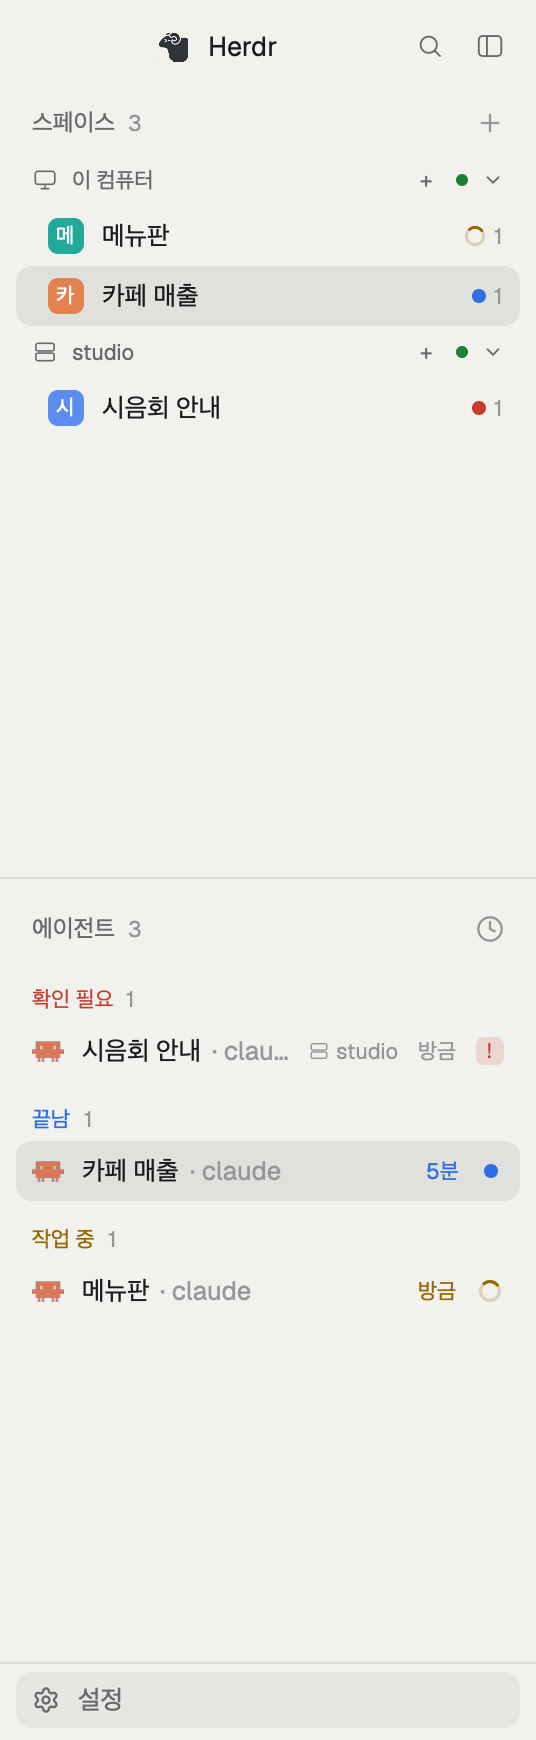
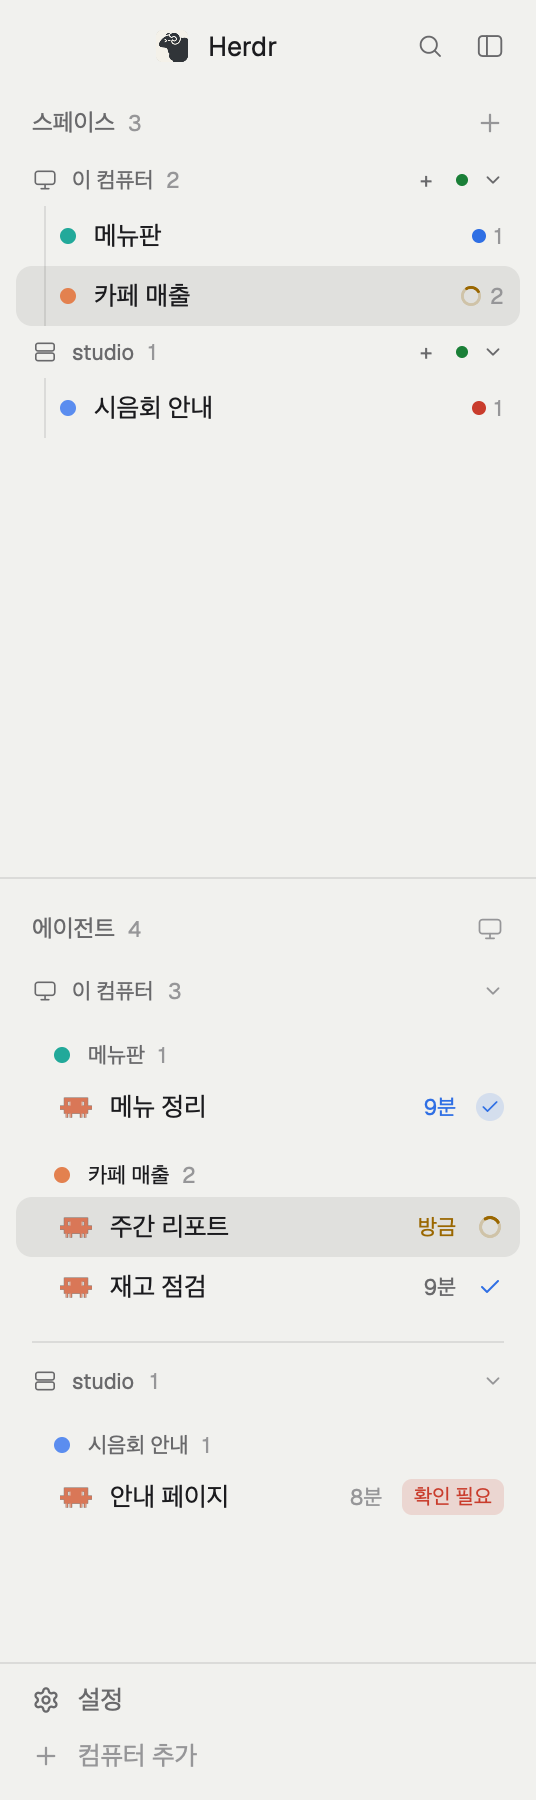
feat: 사이드바 표지 · 완료 표시 정리와 갤러리 소개 새로 만들기 0.2.1
- 갤러리 카드 이름을 Session History KR 로 바꾸고 소개 그림을 새 화면으로 다시 만듦
- 스페이스 표지를 글자 사각형에서 색 점 + 컴퓨터 아래 세로선으로, 컴퓨터 줄에 스페이스 수
- 작업 중 에이전트는 굵게 + 옅은 바탕, 끝난 에이전트는 체크, 끝난 지 한 시간이 지나야 흐리게
- agy 에이전트는 터미널 제목 대신 agy 대화 제목으로 표시
- README 사이드바 그림 · 설명, RECIPE 명세, CHANGELOG 갱신

diff --git a/mods/sidebar-agents/main.js b/mods/sidebar-agents/main.js
@@ -5,7 +5,7 @@
 
 import { View, div, image, svg } from "gpui-kit";
 import { v_flex, h_flex } from "gpui-base";
-import { agents, terminals, panes, focused, spaces, run, theme, shared, setShared, setAgentOrder, openOverlay, closeOverlay, props, window, layout } from "herdr";
+import { agents, terminals, panes, focused, spaces, run, theme, shared, setShared, setAgentOrder, openOverlay, closeOverlay, props, window, layout, hc, exec, checking } from "herdr";
 
 function find(node, id) {
   if (node?.id === id) return node;
@@ -33,6 +33,15 @@ function toggleSidebar() {
 // Stops at an opening bracket or quote, so a title that starts with one ("[web] login") keeps it.
 const clean = (s) => (s ?? "").replace(/^[^\p{L}\p{N}\p{Ps}\p{Pi}]+/u, "").replace(/^\[ [!.] \] /, "").trim();
 
+// Antigravity(agy)는 터미널 제목을 비워 두어 이름 대신 「Antigravity」만 보였다. 그 agy 가 열어 둔
+// 대화(presence/<대화>.lock)의 제목을 agy 의 요약 DB 에서 읽는다. 다른 컴퓨터의 agy 는 그 컴퓨터에서 읽는다.
+const AGY = new Map(); // 터미널 주소 -> { name, at }
+const AGY_TITLE = `PATH="$PATH:/usr/sbin:/usr/bin:/sbin:/bin"
+id=$(lsof -a -p "$1" -Fn 2>/dev/null | sed -n 's#^n.*/antigravity-cli/presence/\\([0-9a-f-]*\\)\\.lock$#\\1#p' | head -n 1)
+[ -n "$id" ] || exit 0
+exec sqlite3 -readonly "file:$HOME/.gemini/antigravity-cli/conversation_summaries.db?immutable=1" "select title from conversation_summaries where conversation_id='$id'" 2>/dev/null`;
+const agyName = (l) => (l?.app === "antigravity" ? AGY.get(l.terminal ?? l.address)?.name ?? "" : "");
+
 function leadPanes(all) {
   const leads = new Map();
   for (const p of all) {
@@ -46,7 +55,11 @@ function leadPanes(all) {
 
 function title(tab, l) {
   const prog = l?.program?.name;
-  const live = clean(l?.title);
+  // agy 의 터미널 제목은 비었거나 프로그램 이름뿐이라, 읽어 둔 대화 제목이 있으면 그것을 쓴다.
+  const raw = clean(l?.title);
+  const agy = clean(agyName(l));
+  const bare = !raw || raw === (l?.terminal ?? l?.address) || raw === prog || raw.toLowerCase() === l?.program?.key || raw.toLowerCase() === "agy";
+  const live = agy && bare ? agy : raw;
   // clean() would strip a path's leading ~ or /: test the title with only its status glyph gone.
   const path = /^[~/]|^[A-Za-z]:\\/.test((l?.title ?? "").replace(/^[^\p{L}\p{N}~/]+/u, ""));
   const telling = live && live !== (l?.terminal ?? l?.address) && live !== prog && !path && !live.includes("@") && live.toLowerCase() !== l?.program?.key;
@@ -67,7 +80,9 @@ const SORTS = [
 const sortOf = () => SORTS.find((s) => s.id === shared("agents.sort")) ?? SORTS[0];
 const SECTION = { 4: "확인 필요", 3: "끝남", 2: "작업 중", 1: "쉬는 중" };
 // 상태를 부르는 말(풍선말), 스페이스 표지의 색(spaces 와 같다).
-const WORD = { blocked: "확인 필요", done: "끝남 · 아직 보지 않음", working: "작업 중", idle: "쉬는 중" };
+const WORD = { blocked: "확인 필요", done: "끝남 · 아직 보지 않음", working: "작업 중", idle: "쉬는 중", finished: "끝남 · 확인함" };
+// 끝난 지 이만큼이 지나기 전에는 흐리게 하지 않는다: 방금 끝난 일은 아직 소식이다.
+const FRESH = 3600000;
 const MARK = { ansi6: "#22a99a", ansi3: "#e3814f", ansi4: "#5b8def", ansi5: "#8b7cf6", ansi2: "#3fae6a", ansi1: "#d9649a" };
 const SECTION_STATUS = { 4: "blocked", 3: "done", 2: "working" };
 
@@ -97,6 +112,37 @@ export default class Agents extends View {
     if (!this.pendingPins.length) localStorage.removeItem("pins");
     this.migratingPins = new Set();
     cx.timer.every(30000, (cx) => cx.notify());
+    this.agyBusy = new Set();
+    cx.timer.every(5000, (cx) => this.refreshAgy(cx));
+  }
+
+  // agy 의 대화 제목: 처음 보면 바로, 그 뒤로는 1분마다 다시 읽는다(대화가 이어지며 제목이 바뀐다).
+  refreshAgy(cx) {
+    if (checking()) return;
+    const now = Date.now();
+    const due = agents().filter((a) => a.app === "antigravity" && !this.agyBusy.has(a.address) && now - (AGY.get(a.address)?.at ?? 0) > 60000);
+    if (!due.length) return;
+    const machineOf = new Map(spaces().map((s) => [s.id, s.machine ?? null]));
+    for (const a of due) this.agyBusy.add(a.address);
+    cx.spawn(async (cx) => {
+      let changed = false;
+      for (const a of due) {
+        const old = AGY.get(a.address)?.name ?? "";
+        let name = old;
+        try {
+          const g = await hc(["get", a.address, "--json"]);
+          const pid = g.code === 0 ? JSON.parse(g.stdout)?.foreground?.pid : null;
+          if (pid) {
+            const r = await exec("sh", ["-c", AGY_TITLE, "sh", String(pid)], { on: machineOf.get(a.space) ?? null, timeout: 8000 });
+            if (r.code === 0) name = clean(r.stdout.split("\n")[0]);
+          }
+        } catch {}
+        AGY.set(a.address, { name, at: Date.now() });
+        this.agyBusy.delete(a.address);
+        if (name !== old) changed = true;
+      }
+      if (changed) cx.notify();
+    });
   }
 
   // Stamps agents whose state changed. Done and idle count as one: looking at a
@@ -105,8 +151,10 @@ export default class Agents extends View {
     let dirty = false;
     for (const a of list) {
       const s = a.status === "done" ? "idle" : a.status;
-      if (this.changed[a.address]?.s === s) continue;
-      this.changed[a.address] = { s, at: now };
+      const prev = this.changed[a.address];
+      if (prev?.s === s) continue;
+      // w: 일하다 멈췄는가. 처음 본 쉬는 에이전트는 끝낸 일이 없다.
+      this.changed[a.address] = { s, at: now, w: prev ? prev.s !== "idle" : false };
       dirty = true;
     }
     if (!dirty) return;
@@ -138,6 +186,12 @@ export default class Agents extends View {
 
   since(a) {
     return this.changed[a.address]?.at ?? 0;
+  }
+
+  // 상태 표지에 넘길 것: 쉬는 중이면 일을 끝내고 쉬는지(finished), 끝난 지 한 시간이 안 됐는지(fresh).
+  markOf(a, now) {
+    const idle = a.status === "idle";
+    return { status: a.status, finished: idle && this.changed[a.address]?.w !== false, fresh: idle && now - this.since(a) < FRESH };
   }
 
   rank(a) {
@@ -218,7 +272,9 @@ export default class Agents extends View {
     if (a.status === "working") return svg("mods/workspace-chrome/spinner.svg").size(12).mx(1).flex_none().text_color(t.working).spin(900);
     if (a.status === "blocked" && compact) return div().size(14).flex_none().rounded(4).bg(t.blocked + "26").text_size(10.5).font_bold().text_color(t.blocked).flex().items_center().justify_center().child("!");
     if (a.status === "blocked") return div().flex_none().px(6).h(18).rounded(5).bg(t.blocked + "26").text_size(10.5).font_semibold().text_color(t.blocked).flex().items_center().child("확인 필요");
-    // Idle: a ring; done: a dot.
+    // 끝남(아직 안 봄): 옅은 원 안의 체크. 끝내고 본 것: 체크만(방금이면 끝남 색, 오래되면 흐린 색). 일한 적 없는 쉬는 중: 고리.
+    if (a.status === "done") return div().size(14).flex_none().rounded(7).bg(color + "26").flex().items_center().justify_center().child(svg("mods/workspace-chrome/check.svg").size(10).text_color(color));
+    if (a.status === "idle" && a.finished) return h_flex().size(14).flex_none().items_center().justify_center().child(svg("mods/workspace-chrome/check.svg").size(12).text_color(a.fresh ? (t.done ?? t.dim) : t.dim));
     if (a.status === "idle") return div().size(7).mx(3).flex_none().rounded(4).border(1.5).border_color(t.idle ?? t.dim);
     return div().size(7).mx(3).flex_none().rounded(4).bg(a.status === "done" ? color : t.dim + "00");
   }
@@ -328,10 +384,14 @@ export default class Agents extends View {
           .hover((s) => s.bg(t.hover))
           .on_click(() => run("pane.focus", { pane: a.pane }))
           .child(div().flex_1().min_w(0).whitespace_nowrap().text_right().text_color(t.muted).child(String(i + 1)))
-          .child(h_flex().w(14).flex_none().items_center().justify_center().child(this.status(t, a, true)));
+          .child(h_flex().w(14).flex_none().items_center().justify_center().child(this.status(t, this.markOf(a, now), true)));
       }
       const when = this.since(a);
-      const idle = a.status === "idle" && !a.focused;
+      // 작업 중은 진하게. 쉬는 중은 끝난 지 한 시간이 지나야 흐리게: 방금 끝난 일은 끝났다는 게 보여야 한다.
+      const mark = this.markOf(a, now);
+      const { finished, fresh } = mark;
+      const idle = a.status === "idle" && !a.focused && !fresh;
+      const working = a.status === "working";
       const isPinned = a.pinned;
       const pin = div()
         .id(`pin-${a.address}`)
@@ -364,6 +424,8 @@ export default class Agents extends View {
         .items_center()
         .gap(9)
         .when(a.focused, (el) => el.bg(t.selected))
+        .when(working && !a.focused, (el) => el.bg(t.working + "14"))
+        .when(idle && this.hovered !== a.address, (el) => el.opacity(0.55))
         .cursor_pointer()
         .hover((s) => s.bg(t.hover))
         .on_hover((on, cx) => {
@@ -379,15 +441,15 @@ export default class Agents extends View {
             cx.notify();
           })).child(pic)))
         .child(h_flex().flex_1().min_w(0).gap(5).items_center()
-          .child(div().min_w(0).max_w(full && more ? 120 : 200).truncate().text_color(idle ? t.muted : t.foreground).child(name))
+          .child(div().min_w(0).max_w(full && more ? 120 : 200).truncate().text_color(idle ? t.muted : t.foreground).when(working, (el) => el.font_semibold()).child(name))
           .when(full && Boolean(more), el => el.child(div().flex_1().min_w(0).truncate().text_color(t.dim).child(`\u00b7 ${more}`))))
         .when(Boolean(machine) && full, el => el.child(h_flex().flex_none().max_w(96).gap(3).items_center().text_size(11).text_color(t.dim)
           .child(svg("mods/workspace-chrome/server.svg").size(11).flex_none())
           .child(div().min_w(0).truncate().child(machine))))
         .when(subs.length > 0, el => el.child(fold(a, subs)))
         .when(this.hovered === a.address, el => el.child(pin))
-        .when(this.hovered !== a.address && Boolean(when), el => el.child(div().flex_none().text_size(11).text_color(a.status === "working" ? (t.working ?? t.dim) : a.status === "done" ? (t.done ?? t.dim) : t.dim).child(duration(now - when))))
-        .child(div().id(`st-${a.address}`).flex_none().tooltip(WORD[a.status] ?? "").child(this.status(t, a, byPriority && !isPinned)));
+        .when(this.hovered !== a.address && Boolean(when), el => el.child(div().flex_none().text_size(11).text_color(a.status === "working" ? (t.working ?? t.dim) : a.status === "done" ? (t.done ?? t.dim) : finished && fresh ? t.muted : t.dim).child(duration(now - when))))
+        .child(div().id(`st-${a.address}`).flex_none().tooltip(finished ? WORD.finished : WORD[a.status] ?? "").child(this.status(t, mark, byPriority && !isPinned)));
     };
 
     // Groups in list order: spaces (grouped) or priority sections. Agents of a
@@ -406,13 +468,12 @@ export default class Agents extends View {
       else groups.push({ id, label: byPriority ? SECTION[r] : a.space_name || "", status: byPriority ? SECTION_STATUS[r] : null, space: byPriority ? null : a.space, machine: machineOf(a), members: [a] });
     }
 
-    // 스페이스 묶음의 머리에 붙는 표지: 스페이스 목록과 같은 색, 이름의 첫 글자.
+    // 스페이스 묶음의 머리에 붙는 표지: 스페이스 목록과 같은 색 점.
     const colors = shared("space.colors") ?? {};
     const here = spaceList.find((s) => s.active)?.id; // 지금 보고 있는 스페이스
     const mark = (g) => {
       const c = colors[g.space] ?? "ansi6";
-      return h_flex().size(15).flex_none().rounded(4).bg(c.startsWith("#") ? c : (MARK[c] ?? t[c])).items_center().justify_center()
-        .text_size(9).font_bold().text_color("#ffffff").child([...g.label][0]?.toUpperCase() ?? "?");
+      return div().size(8).mx(3).flex_none().rounded(4).bg(c.startsWith("#") ? c : (MARK[c] ?? t[c]));
     };
     // A group's header; it folds the group. Folded, it says how many and the most urgent state.
     const header = (g) => {

diff --git a/mods/sidebar-spaces/main.js b/mods/sidebar-spaces/main.js
@@ -400,7 +400,7 @@ export default class Spaces extends View {
       const folded = this.folded.has(m);
       const icon = svg(`mods/workspace-chrome/${m ? "server" : "monitor"}.svg`).size(13).flex_none();
       const badge = div().absolute().right(-3).bottom(-2).size(6).rounded(3).border_1().border_color(t.chrome).bg(connected ? t.ansi2 : t.dim);
-      const head = h_flex().id(`machine-${m ?? "local"}`).h(26).flex_none().px(collapsed ? 0 : 8).gap(7).items_center().text_size(11).font_medium().text_color(t.muted)
+      const head = h_flex().id(`machine-${m ?? "local"}`).h(26).flex_none().px(collapsed ? 0 : 8).gap(7).items_center().text_size(11).font_semibold().text_color(t.muted)
         .when(collapsed, el => el.mt(4).w(RAIL_CELL).justify_center().rounded(6).tooltip(login ? `${m}: 로그인이 필요합니다. 실행: ${login}` : m ? `${m} · ${connected ? "연결됨" : (STATE[machine?.state ?? "asleep"] ?? (machine?.state ?? "asleep").replace(/_/g, " "))}` : "이 컴퓨터"))
         .cursor_pointer().hover(s => s.bg(t.hover))
         .on_click((_e, cx) => {
@@ -414,7 +414,9 @@ export default class Spaces extends View {
           .on_click((_e, cx) => { cx.stop_propagation(); openOverlay({ mod: "machine-add", kind: "dialog", width: 560 }); }).child("⚠")))
         .when(!collapsed, el => el.child(icon))
         .when(collapsed, el => el.child(div().relative().flex_none().child(icon).when(Boolean(m), el => el.child(badge))))
-        .when(!collapsed, el => el.child(div().flex_1().truncate().child(m ?? "이 컴퓨터"))
+        .when(!collapsed, el => el.child(h_flex().flex_1().min_w(0).gap(6).items_center()
+            .child(div().min_w(0).truncate().child(m ?? "이 컴퓨터"))
+            .when(mine.length > 0, el => el.child(div().flex_none().font_normal().text_color(t.dim).child(String(mine.length)))))
           .when(!connected && !rebuilt && !login, el => el.child(div().flex_none().font_normal().text_color(t.dim).child(STATE[machine?.state ?? "asleep"] ?? (machine?.state ?? "asleep").replace(/_/g, " "))))
           .when(rebuilt, el => el.child(h_flex().flex_none().gap(3).items_center()
             .child(div().max_w(140).truncate().child(repair?.error || "다시 만들어짐 ·"))
@@ -535,13 +537,16 @@ export default class Spaces extends View {
         cx.notify();
       })
       .on_mouse_down("right", () => this.menu(w))
+      // 컴퓨터 아래의 스페이스: 컴퓨터 아이콘 밑으로 내려오는 선 하나로 어느 컴퓨터의 것인지 잇는다.
+      .when(Boolean(this.nested), el => el.child(div().absolute().left(14).top(0).bottom(0).w(1).bg(t.border)))
       .child(
         h_flex()
           .gap(9)
           .items_center()
-          .when(Boolean(tree), el => el.pl(22).child(svg("mods/workspace-chrome/branch.svg").size(13).flex_none().text_color(t.dim)))
-          .when(!tree && Boolean(this.nested), el => el.pl(8))
-          .when(!tree, el => el.child(h_flex().size(18).flex_none().rounded(5).bg(fill).items_center().justify_center().text_size(10.5).font_bold().text_color("#ffffff").child([...w.name][0]?.toUpperCase() ?? "?")))
+          .when(Boolean(tree), el => el.pl(this.nested ? 30 : 22).child(svg("mods/workspace-chrome/branch.svg").size(13).flex_none().text_color(t.dim)))
+          .when(!tree && Boolean(this.nested), el => el.pl(14))
+          // 스페이스 표지: 글자 사각형 대신 스페이스 색 점(에이전트 목록의 묶음 머리와 같다).
+          .when(!tree, el => el.child(div().size(8).flex_none().rounded(4).bg(fill)))
           .child(div().flex_initial().min_w(SIDE_MIN).truncate().text_color(t.foreground).when(on, el => el.font_medium()).child(w.name))
           .child(g ? this.gitTail(g, tree, w.name, t) : div().flex_1())
           .when(Boolean(crew), el => el.child(crew)),

diff --git a/RECIPE.md b/RECIPE.md
@@ -1,22 +1,24 @@
-# herdr-history-ko
+# Session History KR
 
-Herdr 오른쪽에 「히스토리」 패널을 붙이고, 에이전트가 연 HTML 문서를 Herdr 안에서 보는 「문서 보기」 창을 더하고, 왼쪽 사이드바를 한글로 다듬은 레이아웃이다. 패널은 지금 보고 있는 에이전트(Claude Code · Codex · Antigravity)에게 보낸 요청을 하나씩 나눠, 요청마다 무엇을 했고 누가(모델 · effort) 했는지 보여 준다. 사이드바는 컴퓨터 아래에 스페이스를 들여 쓰고, 에이전트를 급한 순서 · 스페이스별 · 컴퓨터별로 정렬한다. 화면 글자는 모두 한국어다.
+Claude Code, Codex, Antigravity에 맡긴 일이 어디까지 진행됐는지 히스토리에서 요청별로 확인합니다. 에이전트가 만든 HTML 문서는 Herdr 안에서 바로 봅니다. 한글 사이드바는 스페이스를 컴퓨터별로 묶고, 확인이 필요한 에이전트부터 보여 줍니다.
 
-![herdr-history-ko](preview.png)
+![Session History KR](preview.png)
 
-레이아웃은 둘이다. `history-sidebar` 는 한글 사이드바와 히스토리, `history` 는 Herdr 기본 사이드바와 히스토리다.
+레이아웃은 두 가지입니다. 둘 다 히스토리를 보여 주며, `history-sidebar` 는 한글 사이드바를, `history` 는 Herdr 기본 사이드바를 씁니다.
 
 **What you see:**
 
 왼쪽에서 오른쪽으로.
 
 - **사이드바**(268px, `chrome` 바탕): 위 46px 는 기본 `workspace-chrome`, 가운데는 스페이스 목록과 에이전트 목록이 같은 비율(각각 최소 90px), 바닥 69px 는 「설정」 · 「컴퓨터 추가」.
-  - 스페이스 목록: 머리 「스페이스 N」과 +. 다른 컴퓨터가 등록되어 있으면 컴퓨터 줄(11px, 이 컴퓨터는 모니터 아이콘과 「이 컴퓨터」, 다른 컴퓨터는 서버 아이콘과 이름, 연결 점, +, 접기 화살표)이 생기고 그 아래 스페이스 줄이 8px 들여 쓰인다. 스페이스 줄은 색 표지(이름 첫 글자), 이름, 평범하지 않을 때만 저장소 · 브랜치, 오른쪽에 그 안의 에이전트 수와 가장 급한 상태.
+  - 스페이스 목록: 머리 「스페이스 N」과 +. 다른 컴퓨터가 등록되어 있으면 컴퓨터 줄(11px semibold, 이 컴퓨터는 모니터 아이콘과 「이 컴퓨터」, 다른 컴퓨터는 서버 아이콘과 이름, 이름 옆에 스페이스 수(`dim`), 연결 점, +, 접기 화살표)이 생긴다. 그 아래 스페이스 줄은 14px 더 들여 쓰이고, 컴퓨터 아이콘 가운데(줄 왼쪽에서 14px)에서 1px `border` 세로선이 그 컴퓨터의 스페이스 줄을 따라 내려온다. 스페이스 줄은 8px 색 점(스페이스 색), 이름, 평범하지 않을 때만 저장소 · 브랜치, 오른쪽에 그 안의 에이전트 수와 가장 급한 상태.
   - 화면 공유(5900)가 열린 다른 컴퓨터 줄에는 화면 공유 단추가 붙는다.
   - 에이전트 목록: 머리 「에이전트 N」과 정렬 아이콘(급한 순서 시계 · 스페이스별 겹친 층 · 컴퓨터별 모니터).
-    - 스페이스별: 스페이스 머리(15px 색 표지, 이름, 수) 아래 에이전트 줄(앱 아이콘, 제목, 지난 시간, 상태). 다른 컴퓨터의 스페이스는 머리 끝에 서버 아이콘과 컴퓨터 이름.
+    - 스페이스별: 스페이스 머리(8px 색 점, 이름, 수) 아래 에이전트 줄(앱 아이콘, 제목, 지난 시간, 상태). 다른 컴퓨터의 스페이스는 머리 끝에 서버 아이콘과 컴퓨터 이름.
     - 컴퓨터별: 컴퓨터 머리(13px 아이콘, 이름, 수, 접기 화살표) 아래 스페이스 묶음이 8px 들여 쓰인다. 두 번째 컴퓨터부터 위에 1px 선.
     - 급한 순서: 확인 필요 · 끝남 · 작업 중 · 쉬는 중 구역. 줄은 「스페이스 · 제목」, 다른 컴퓨터 줄 끝에 서버 아이콘과 이름.
+    - 에이전트 줄의 강약: 작업 중은 이름을 semibold 로, 줄 바탕을 `working` 색 8%(`+ "14"`) 면으로. 상태 표지는 끝남(아직 안 봄)이 `done` 색 15% 원(14px) 안의 `done` 색 체크, 끝내고 본 것이 체크만(끝난 지 한 시간 안이면 `done` 색, 넘으면 `dim`), 일을 시킨 적 없이 쉬는 것이 7px 고리. 끝난 지 한 시간이 지난 쉬는 줄만(지금 보고 있지 않을 때) 이름을 `muted` 로, 줄 전체를 불투명도 0.55 로 흐리게 하고, 마우스를 올리면 원래대로. 방금 끝난 일은 흐리지 않는다. 한 시간은 쉬는 상태가 된 시각부터 세고(끝남과 쉬는 중은 한 상태로 본다), 일을 했는지는 상태가 바뀔 때 앞 상태가 쉬는 중이 아니었는지로 localStorage `changed` 에 적어 둔다.
+    - 에이전트 제목: 이름 붙인 탭이면 탭 이름, 아니면 터미널 제목. Antigravity(agy)는 터미널 제목에 터미널 주소만 남겨, agy 가 저장한 대화 제목을 쓴다.
 - **탭 줄**(42px): 기본 `tabs` 와 오른쪽 96px 「히스토리」 단추(15px 시계 아이콘 `icon.png` + 글자). 패널이 열려 있으면 단추가 눌린 면으로 보인다.
 - **본문**(안쪽 여백 8, 간격 8): 터미널, 숨은 파일 · 변경 패널, 히스토리 칸(384px, 300~720px 로 끌어 바꿈). 맨 아래 상태 줄 28px.
 - **히스토리 패널**: 테두리 대신 바탕보다 옅은 면(`raised`)으로 나눈다.
@@ -48,7 +50,7 @@ Herdr 오른쪽에 「히스토리」 패널을 붙이고, 에이전트가 연 H
 - 문서 찾기(`reader.py`): 요청마다 `docs`. 셸 명령의 `open <파일>`(같은 명령의 `cd` 를 따라가고, 상대 경로는 그 대화의 폴더를 알 때만), 에이전트가 만들거나 고친 `.html`, 답변에 적은 경로(`~/` · `/` 로 시작, 백틱 · `[이름](<경로>)` 안의 띄어쓰기 경로 포함, 지금 있는 파일만). 확장자 `.html .htm .svg .png .jpg .jpeg .gif .webp`. 요청마다 12개.
 - `reader.py [--on <컴퓨터>] --doc <경로> [고친 시각] [크기]`: 그 컴퓨터에서 문서와, 문서가 같은 폴더(아래 폴더 포함) 안에서 `src` · `href` · `url()` 로 부르는 재료(css · js · 그림 · 글꼴, 다른 html 은 빼고, 80개 · 합쳐 12MB까지)를 base64 JSON 으로 낸다. 고친 시각과 크기가 같으면 `{"same": true}`.
 - `mods/doc-view`: `main.js`(다이얼로그, props `docs: [{path, at, topic}]` · `start` · `machine` · `browser`), `view.py`(가져와 `~/.cache/herdr-doc-view/docs/<문서>/` 에 펼치고, 글자 인코딩을 적지 않은 HTML 에는 사본에 `<meta charset="utf-8">` 을 넣고, 그린 조각을 `mods/doc-view/.shots/` 에 둔다. `peek` 은 전에 그린 것만), `render.swift`(처음 쓸 때 `xcrun swiftc -O` 로 `~/.cache/herdr-doc-view/bin/` 에 빌드. WKWebView 를 화면 밖 테두리 없는 창에 두고 accessory 앱으로 돌려 Dock 에 나오지 않는다. 글꼴을 기다려 높이를 재고 1600pt 조각을 2배 PNG 로 찍는다. 60000pt 까지, 25초). 그림 파일은 그리지 않고 그대로 쓴다. 쓰는 `herdr` 함수: `exec` · `appHome` · `closeOverlay` · `props` · `theme`. 아이콘 `icons/*.svg`.
-- `mods/sidebar-spaces` · `sidebar-agents` · `sidebar-chrome`: 기본 `spaces` · `agents` · `workspace-chrome`(0.1.16)을 `mod.clone` 으로 복제해 글자를 한글로 바꾸고 위계를 더한 것. `sidebar-spaces` 는 `hc machine ls --json` 으로 컴퓨터를, `exec("ssh", ["-G", …])` 와 `nc -z -G 2 <주소> 5900` 으로 화면 공유를 5분마다 알아보고 `open` 으로 연다. `sidebar-agents` 는 `shared("agents.sort")` 에 `priority` · `grouped` · `machines` 를 둔다. 아이콘은 기본 `mods/workspace-chrome/*.svg`.
+- `mods/sidebar-spaces` · `sidebar-agents` · `sidebar-chrome`: 기본 `spaces` · `agents` · `workspace-chrome`(0.1.16)을 `mod.clone` 으로 복제해 글자를 한글로 바꾸고 위계를 더한 것. `sidebar-spaces` 는 `hc machine ls --json` 으로 컴퓨터를, `exec("ssh", ["-G", …])` 와 `nc -z -G 2 <주소> 5900` 으로 화면 공유를 5분마다 알아보고 `open` 으로 연다. `sidebar-agents` 는 `shared("agents.sort")` 에 `priority` · `grouped` · `machines` 를 둔다. 아이콘은 기본 `mods/workspace-chrome/*.svg`. `sidebar-agents` 는 Antigravity 에이전트(`app: "antigravity"`)의 대화 제목을 1분마다 읽는다: `hc get <터미널> --json` 의 `foreground.pid` → `lsof -a -p <pid> -Fn` 으로 그 agy 가 연 `~/.gemini/antigravity-cli/presence/<대화>.lock` → `conversation_summaries.db`(`immutable=1`) 의 `conversation_summaries.title`. 다른 컴퓨터는 `exec(…, {on: 컴퓨터})` 로 그 컴퓨터에서 읽는다.
 
 **Watch out:**
 
@@ -64,6 +66,7 @@ Herdr 오른쪽에 「히스토리」 패널을 붙이고, 에이전트가 연 H
 - Xcode 명령줄 도구가 없으면 `xcrun` 이 설치 창을 띄우므로 먼저 `xcode-select -p` 로 확인한다.
 - `claude -p --output-format json` 은 2.1.328 에서 결과 하나가 아니라 이벤트 배열을 낸다.
 - 사이드바 복제본은 Herdr 업데이트를 받지 않는다. 미리 보려고 `herdr-app do mod.open` 을 쓰지 않는다(지금 레이아웃에 블록이 더해진다).
+- 모드의 `exec` 는 PATH 에 `/usr/sbin` 이 없어 `lsof` 를 찾지 못한다. agy 제목을 읽는 스크립트는 첫 줄에서 PATH 를 더한다.
 - `herdr-app check` 는 기본 역할만 그린다. 단추 · 창 · 접힌 사이드바는 값을 넣은 임시 사본으로 확인한다.
 
 **Done when:**
@@ -74,4 +77,5 @@ Herdr 오른쪽에 「히스토리」 패널을 붙이고, 에이전트가 연 H
 - Herdr 에 추가한 다른 컴퓨터의 에이전트에 들어가도 요청이 나온다.
 - 에이전트가 `open` 으로 HTML 을 연 대화를 따라가면 히스토리 머리에 「문서 1」이 생기고, 누르면 그 페이지가 원본과 같은 모양으로 나온다. 다른 컴퓨터의 에이전트가 연 문서도 같다.
 - 에이전트 정렬 팝업에 세 가지가 있고, 컴퓨터별에서 「이 컴퓨터」와 다른 컴퓨터 머리가 나뉜다.
+- 이름 없는 탭에서 도는 agy 가 「Antigravity」가 아니라 agy 대화 제목으로 나오고, 방금 끝난 에이전트는 또렷한 체크로, 끝난 지 한 시간이 지난 에이전트만 흐리게 나오며, 작업 중인 줄은 굵다.
 - `claude` 로그인이 없으면 제목 자리에 에이전트가 한 말의 첫 문장이 오고, 맨 위에 까닭이 나온다.

diff --git a/README.md b/README.md
@@ -1,4 +1,4 @@
-<h1 align="center">herdr-history-ko</h1>
+<h1 align="center">Session History KR</h1>
 
 <p align="center">
   터미널에서 코딩 에이전트를 돌리는 macOS 앱 Herdr에 히스토리 패널, 문서 보기, 한글 사이드바를 더하는 키트입니다.<br>
@@ -75,13 +75,13 @@ sh install.sh
 
 ### 한글 사이드바
 
-<img src="docs/media/sidebar.png" width="268" align="right" alt="컴퓨터별 스페이스와 급한 순서로 정렬한 에이전트 목록">
+<img src="docs/media/sidebar.png" width="268" align="right" alt="컴퓨터별로 묶은 스페이스와 에이전트 목록">
 
 「이 컴퓨터」 아래에 메뉴판과 카페 매출, 「studio」 아래에 시음회 안내가 묶인 사이드바
 
-Herdr의 스페이스와 에이전트 목록을 한글로 보여 줍니다. 각 스페이스는 소속 컴퓨터 아래에 들여 써서 구분하고, 컴퓨터 줄을 누르면 그 아래 목록이 접힙니다. 화면 공유를 켠 다른 Mac 줄에는 화면 공유를 여는 단추가 붙습니다.
+Herdr의 스페이스와 에이전트 목록을 한글로 보여 줍니다. 스페이스는 색 점으로 표시하고, 컴퓨터 아이콘 아래로 내려오는 세로선 안쪽에 들여 써 어느 컴퓨터의 스페이스인지 구분합니다. 컴퓨터 줄을 누르면 그 아래 목록이 접힙니다. 화면 공유를 켠 다른 Mac 줄에는 화면 공유를 여는 단추가 붙습니다.
 
-에이전트는 「급한 순서」, 「스페이스별」, 「컴퓨터별」로 정렬할 수 있습니다. 「급한 순서」로 정렬하면 「확인 필요」, 「끝남」, 「작업 중」 차례로 보이고, 쉬는 중인 에이전트는 그다음에 놓입니다.
+에이전트는 「급한 순서」, 「스페이스별」, 「컴퓨터별」로 정렬할 수 있습니다. 「급한 순서」에서는 「확인 필요」, 「끝남」, 「작업 중」, 「쉬는 중」 순으로 나열됩니다. 작업 중인 에이전트는 이름이 굵고 줄 바탕이 옅게 칠해집니다. 작업이 끝났지만 아직 확인하지 않은 에이전트는 옅은 동그라미 안에 체크가 표시되고, 확인하면 체크만 남습니다. 확인한 에이전트는 끝난 뒤 한 시간 동안 체크와 줄이 또렷하게 보입니다. 한 시간이 지나면 체크가 회색으로 바뀌고 줄 전체가 흐려집니다. Antigravity는 터미널 제목을 남기지 않아 agy가 저장한 대화 제목을 대신 보여 줍니다.
 
 <br clear="all">
 

diff --git a/CHANGELOG.md b/CHANGELOG.md
@@ -1,5 +1,13 @@
 # 바뀐 것
 
+## 0.2.1 · 2026-11-23
+
+- 갤러리에 보이는 이름을 Session History KR로 바꾸고 소개 그림을 새로 만들었습니다.
+- 한글 사이드바
+  - 스페이스 앞의 글자 사각형을 색 점으로 바꾸고, 컴퓨터 아래 스페이스를 세로선으로 이었습니다. 컴퓨터 줄에 스페이스 수가 나옵니다.
+  - 작업 중인 에이전트는 이름이 굵고 줄 바탕이 옅게 칠해집니다. 끝난 에이전트에는 체크가 표시되고, 확인한 에이전트는 끝난 지 한 시간이 지나야 체크가 회색으로 바뀌고 줄 전체가 흐려집니다.
+  - Antigravity(agy) 에이전트는 「Antigravity」 대신 agy의 대화 제목으로 표시됩니다. 탭 이름을 붙였으면 탭 이름이 먼저 나옵니다.
+
 ## 0.2.0 · 2026-11-23
 
 - 문서 보기에서 에이전트가 연 HTML 문서, SVG, 그림을 Herdr 안에서 크게 봅니다. 다른 컴퓨터에서 연 문서도 가져옵니다.
